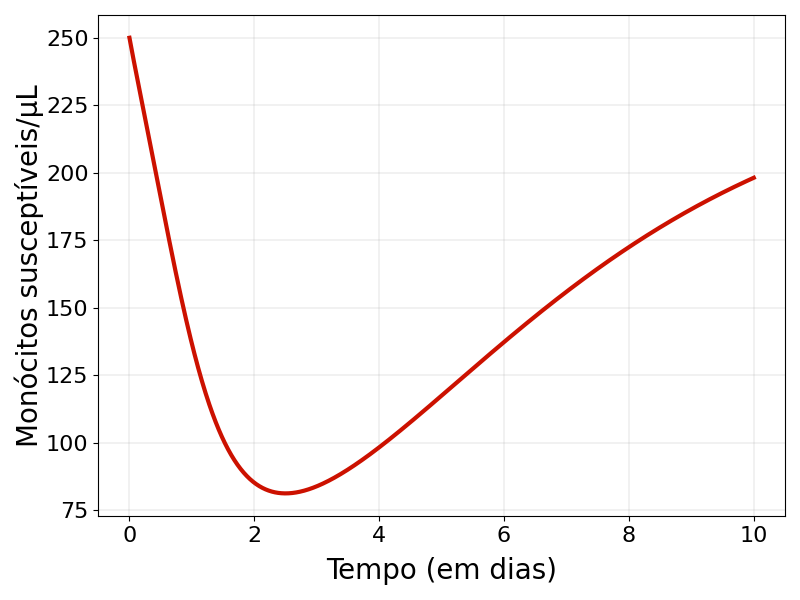
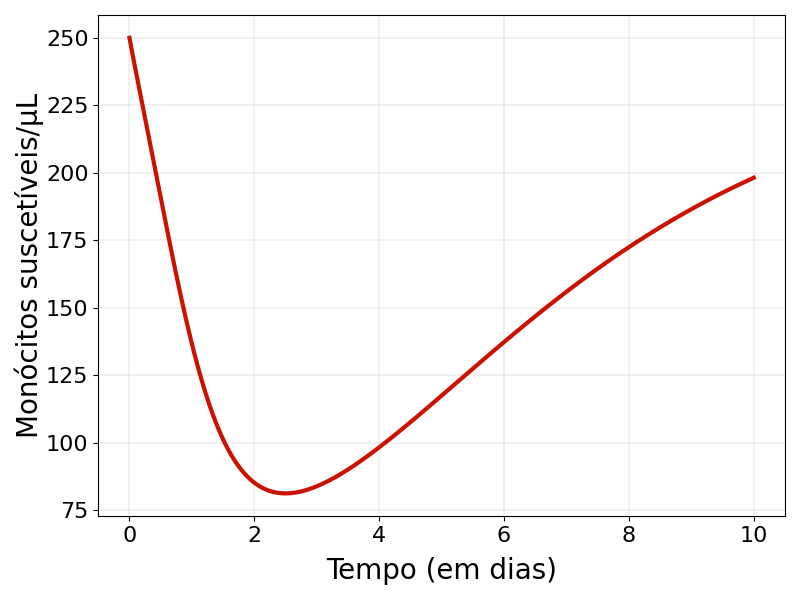
Update comments and fix minor issues in main.py

Changed region(s): [[0.0, 0.15, 0.0625, 0.75]]

diff --git a/dengue_math_models.py b/dengue_math_models.py
@@ -4,6 +4,7 @@ from config_variables import *
 
 # time.time()
 
+#model for antivirals sensivity analysis
 def model_1(antiviral,folder_name_for_figures,folder_name_for_csv):
     for w in range(num_levels):                   # Loop through each remediocount value
         for n in range(time_counts - 1):          # Loop through each time step (except the last one)
@@ -55,6 +56,7 @@ def model_1(antiviral,folder_name_for_figures,folder_name_for_csv):
     save_data_to_csv(remediocount, v[:, 127, 0], "viral_particles_antiviral_"+antiviral, "Antiviral", "Particulas virais/uL",folder_name_for_csv)
     save_data_to_csv(remediocount, z[:, 127, 0], "t_lymphocytes_antiviral_"+antiviral, "Antiviral", "Linfocitos T/uL",folder_name_for_csv)
 
+# model for for the antiviral by time (day) administration
 def model_2(antiviral,folder_name_for_figures,folder_name_for_csv,day):
     w=0
     for n in range(time_counts - 1):          # Loop through each time step (except the last one)
@@ -102,6 +104,7 @@ def model_2(antiviral,folder_name_for_figures,folder_name_for_csv,day):
     save_data_to_csv(t, v[0,:,0], "antiviral_"+antiviral+"_time_v_day"+str(day), "Tempo", "Particulas virais/uL",folder_name_for_csv)
     save_data_to_csv(t, z[0,:,0], "antiviral_"+antiviral+"_time_z_day"+str(day), "Tempo", "Linfocitos T/uL",folder_name_for_csv)
 
+# model with no antiviral
 def model_3(antiviral,folder_name_for_figures,folder_name_for_csv):
     w=0
     for n in range(time_counts - 1):          # Loop through each time step (except the last one)
@@ -134,7 +137,7 @@ def model_3(antiviral,folder_name_for_figures,folder_name_for_csv):
     save_data_to_csv(t, v[0,:,0], "antiviral_"+antiviral+"_time_v", "Tempo", "Particulas virais/uL",folder_name_for_csv)
     save_data_to_csv(t, z[0,:,0], "antiviral_"+antiviral+"_time_z", "Tempo", "Linfocitos T/uL",folder_name_for_csv)
 
-    graph_2D_generator(t, t, s[0, :, 0], u'Monócitos susceptíveis/\u03bcL', 'graph-s-original',folder_name_for_figures)  # Generate a graph for susceptible monocytes (s) over remediocount
+    graph_2D_generator(t, t, s[0, :, 0], u'Monócitos suscetíveis/\u03bcL', 'graph-s-original',folder_name_for_figures)  # Generate a graph for susceptible monocytes (s) over remediocount
     graph_2D_generator(t, t, i[0, :, 0], u'Monócitos infectados/\u03bcL', 'graph-i-original',folder_name_for_figures)    # Generate a graph for infected monocytes (i) over remediocount
     graph_2D_generator(t, t, v[0, :, 0], u'Partículas virais/\u03bcL', 'graph-v-original',folder_name_for_figures)       # Generate a graph for viral particles (v) over remediocount
     graph_2D_generator(t, t, z[0, :, 0], u'Linfócitos T/\u03bcL', 'graph-z-original',folder_name_for_figures)            # Generate a graph for T lymphocytes (z) over remediocount

diff --git a/main.py b/main.py
@@ -28,13 +28,16 @@ population_id = ["s", # susceptible monocytes
 
 time_inicial = time.time() # Start the timer
 
+# Starting the simulation for the original model with no antiviral
+print("\nStarting the simulation for antiviral by time with no antiviral...\n")
+model_3(no_antiviral,folder_name_for_figures,folder_name_for_csv_no_antiviral)
+
 # Starting the simulation for the antiviral behavior graph
 print("\nStarting the simulation for antivirals behavior graph...\n")
-
 antiviral_behavior_graph(response, percent_doses, data, label,folder_name_for_figures)
-print("Simulation for antivirals behavior graph completed!")
+print("Simulation for antivirals behavior graph completed!\n")
 
-# Starting the simulation for the original model
+# Starting the simulation for antivirals sensivity analysis
 print("\nStarting the simulation for antivirals sensivity analysis...\n")
 
 for antiviral in antiviral_parameters:
@@ -48,9 +51,6 @@ for population in population_id:
 
 # Starting the simulation for the antiviral by time (day) administration
 antiviral_days = [0.5,1,1.27,2,3,4,5,6] # construir esse vetor p dias
-
-print("\nStarting the simulation for antiviral by time with no antiviral...\n")
-model_3(no_antiviral,folder_name_for_figures,folder_name_for_csv_no_antiviral)
 
 for day in antiviral_days:
     print("\nStarting the simulation for antiviral by time administration at \n",day,"day...\n")

diff --git a/generate_graphs.py b/generate_graphs.py
@@ -28,7 +28,7 @@ def graph_generator_3(eixo_x,eixo_y,t,dados,dados2,nome,folder_name,day_antivira
     plt.ylabel(eixo_y,  fontsize = 12, labelpad = 6) # Sets the y-axis label
     plt.plot(t,dados[0,:,0],'#00c2b0',label = 'Com antiviral',linewidth = '1.9')  # Plots the data with antiviral
     plt.plot(t,dados2[0,:,0],'#ff8201',label = 'Sem antiviral',linewidth = '1.9') # Plots the data without antiviral
-    plt.axvline(day, color = 'b', linestyle = '--', linewidth = 1.3,label = 'Adm. antiviral') # Adds a vertical line indicating the day of antiviral administration
+    plt.axvline(day_antiviral, color = 'b', linestyle = '--', linewidth = 1.3,label = 'Adm. antiviral') # Adds a vertical line indicating the day of antiviral administration
     plt.tight_layout()
     leg = ax.legend()                                # Creates the legend
     plt.grid(color = 'gray', linestyle = '-', linewidth = 0.15) # Adds a grid to the graph
